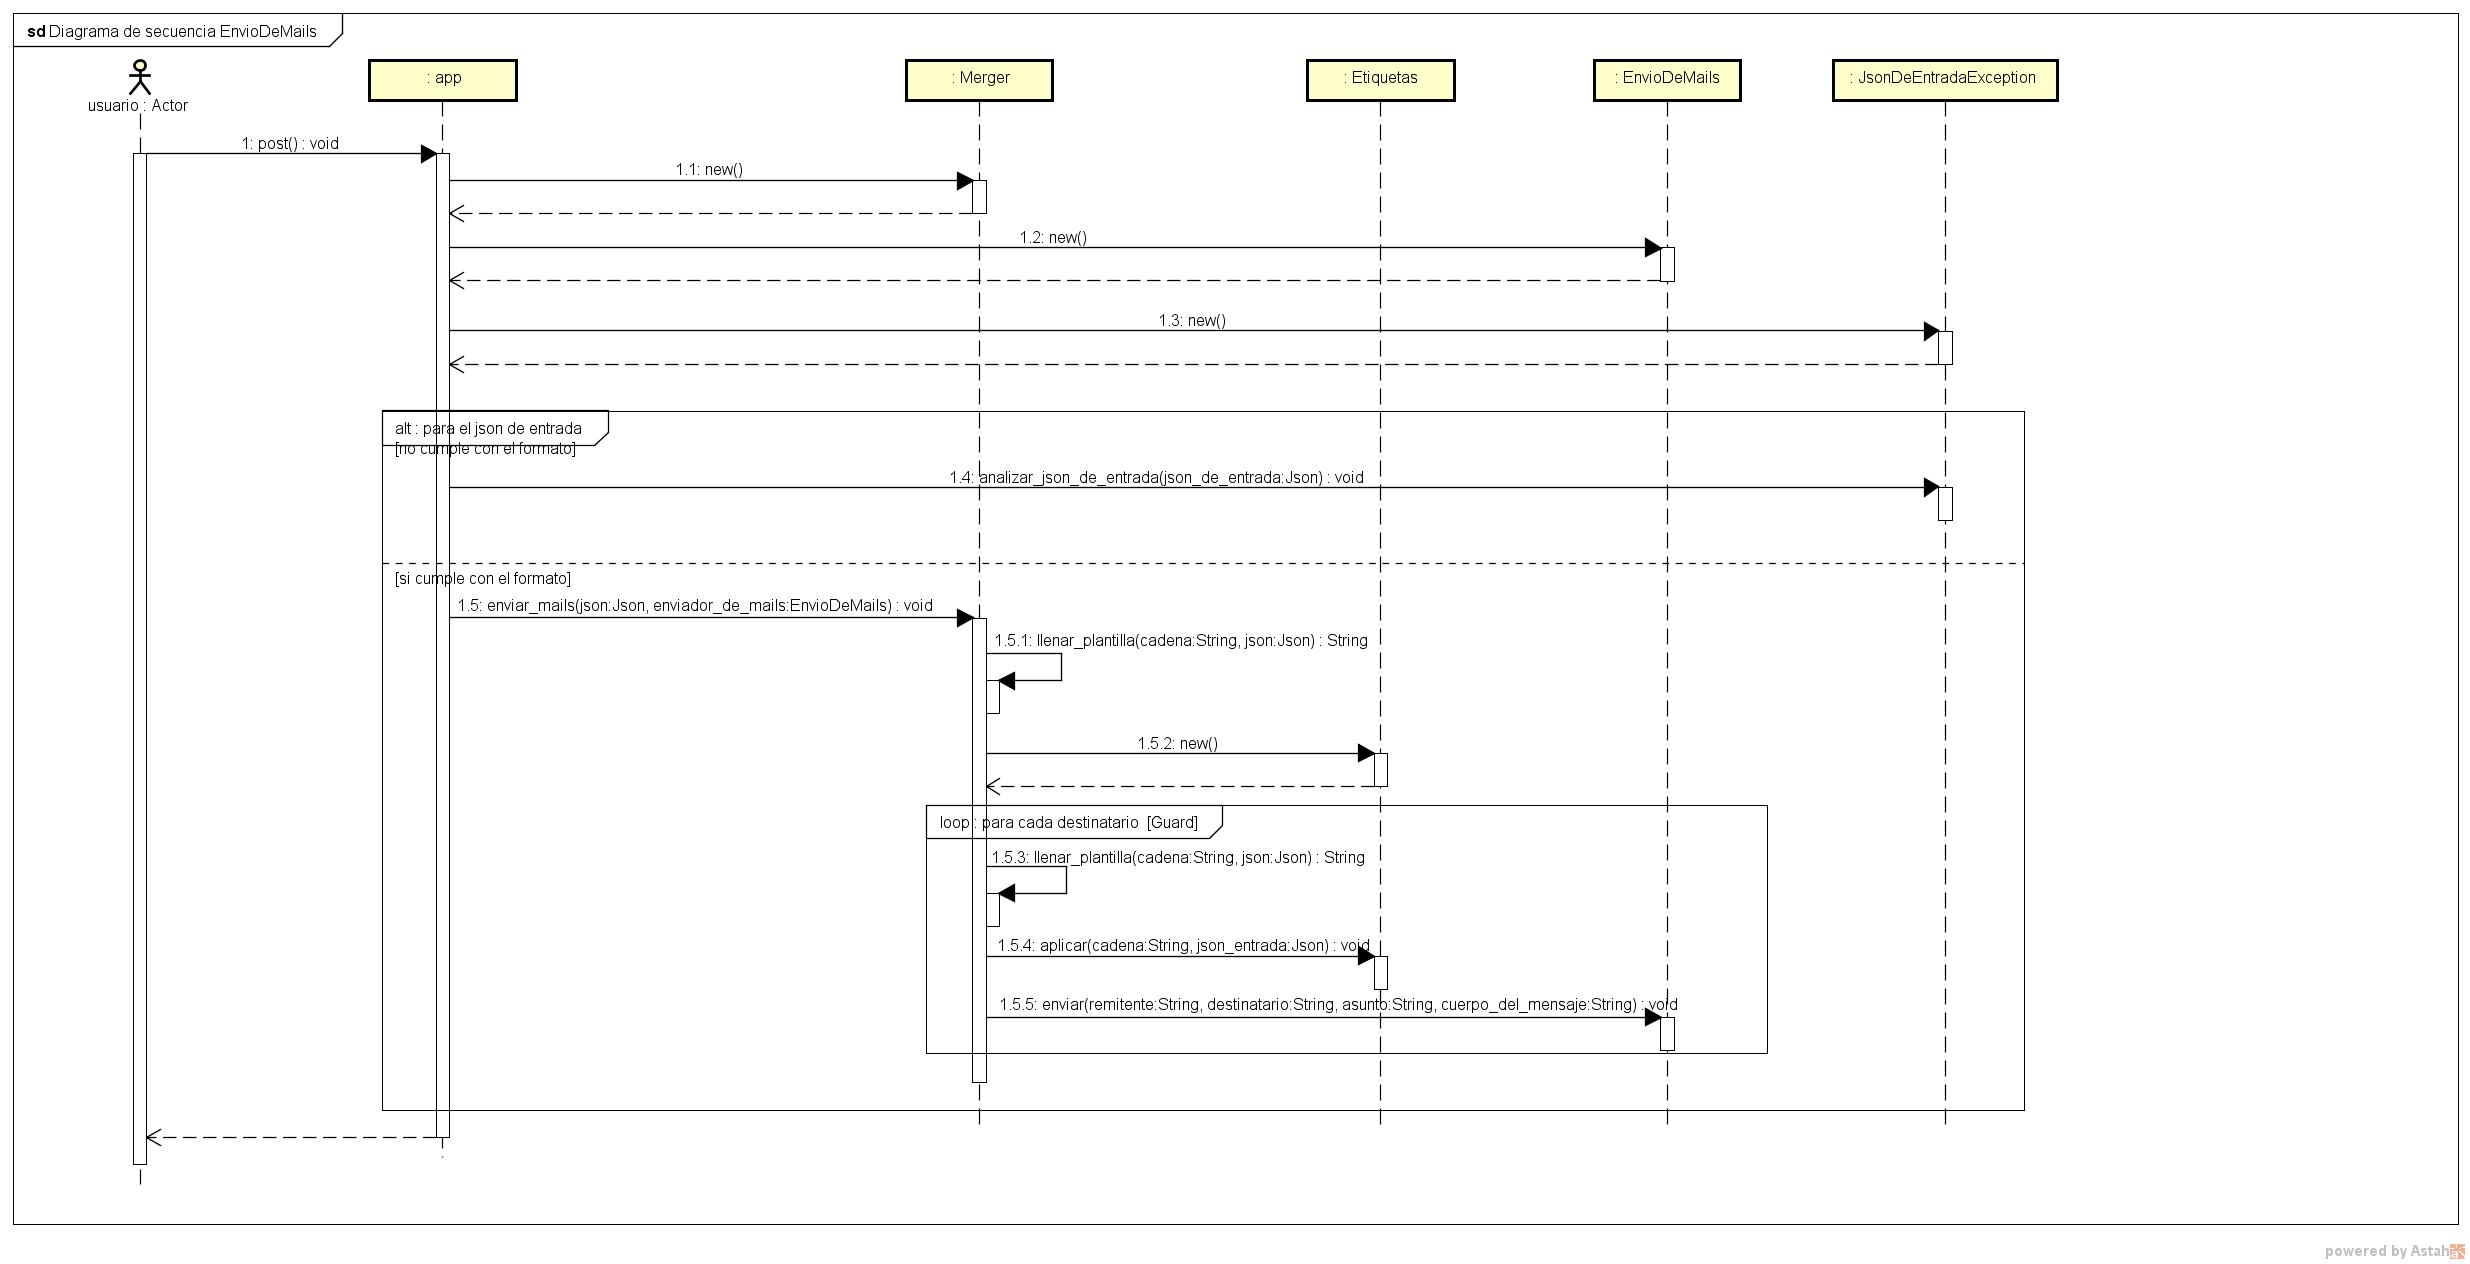
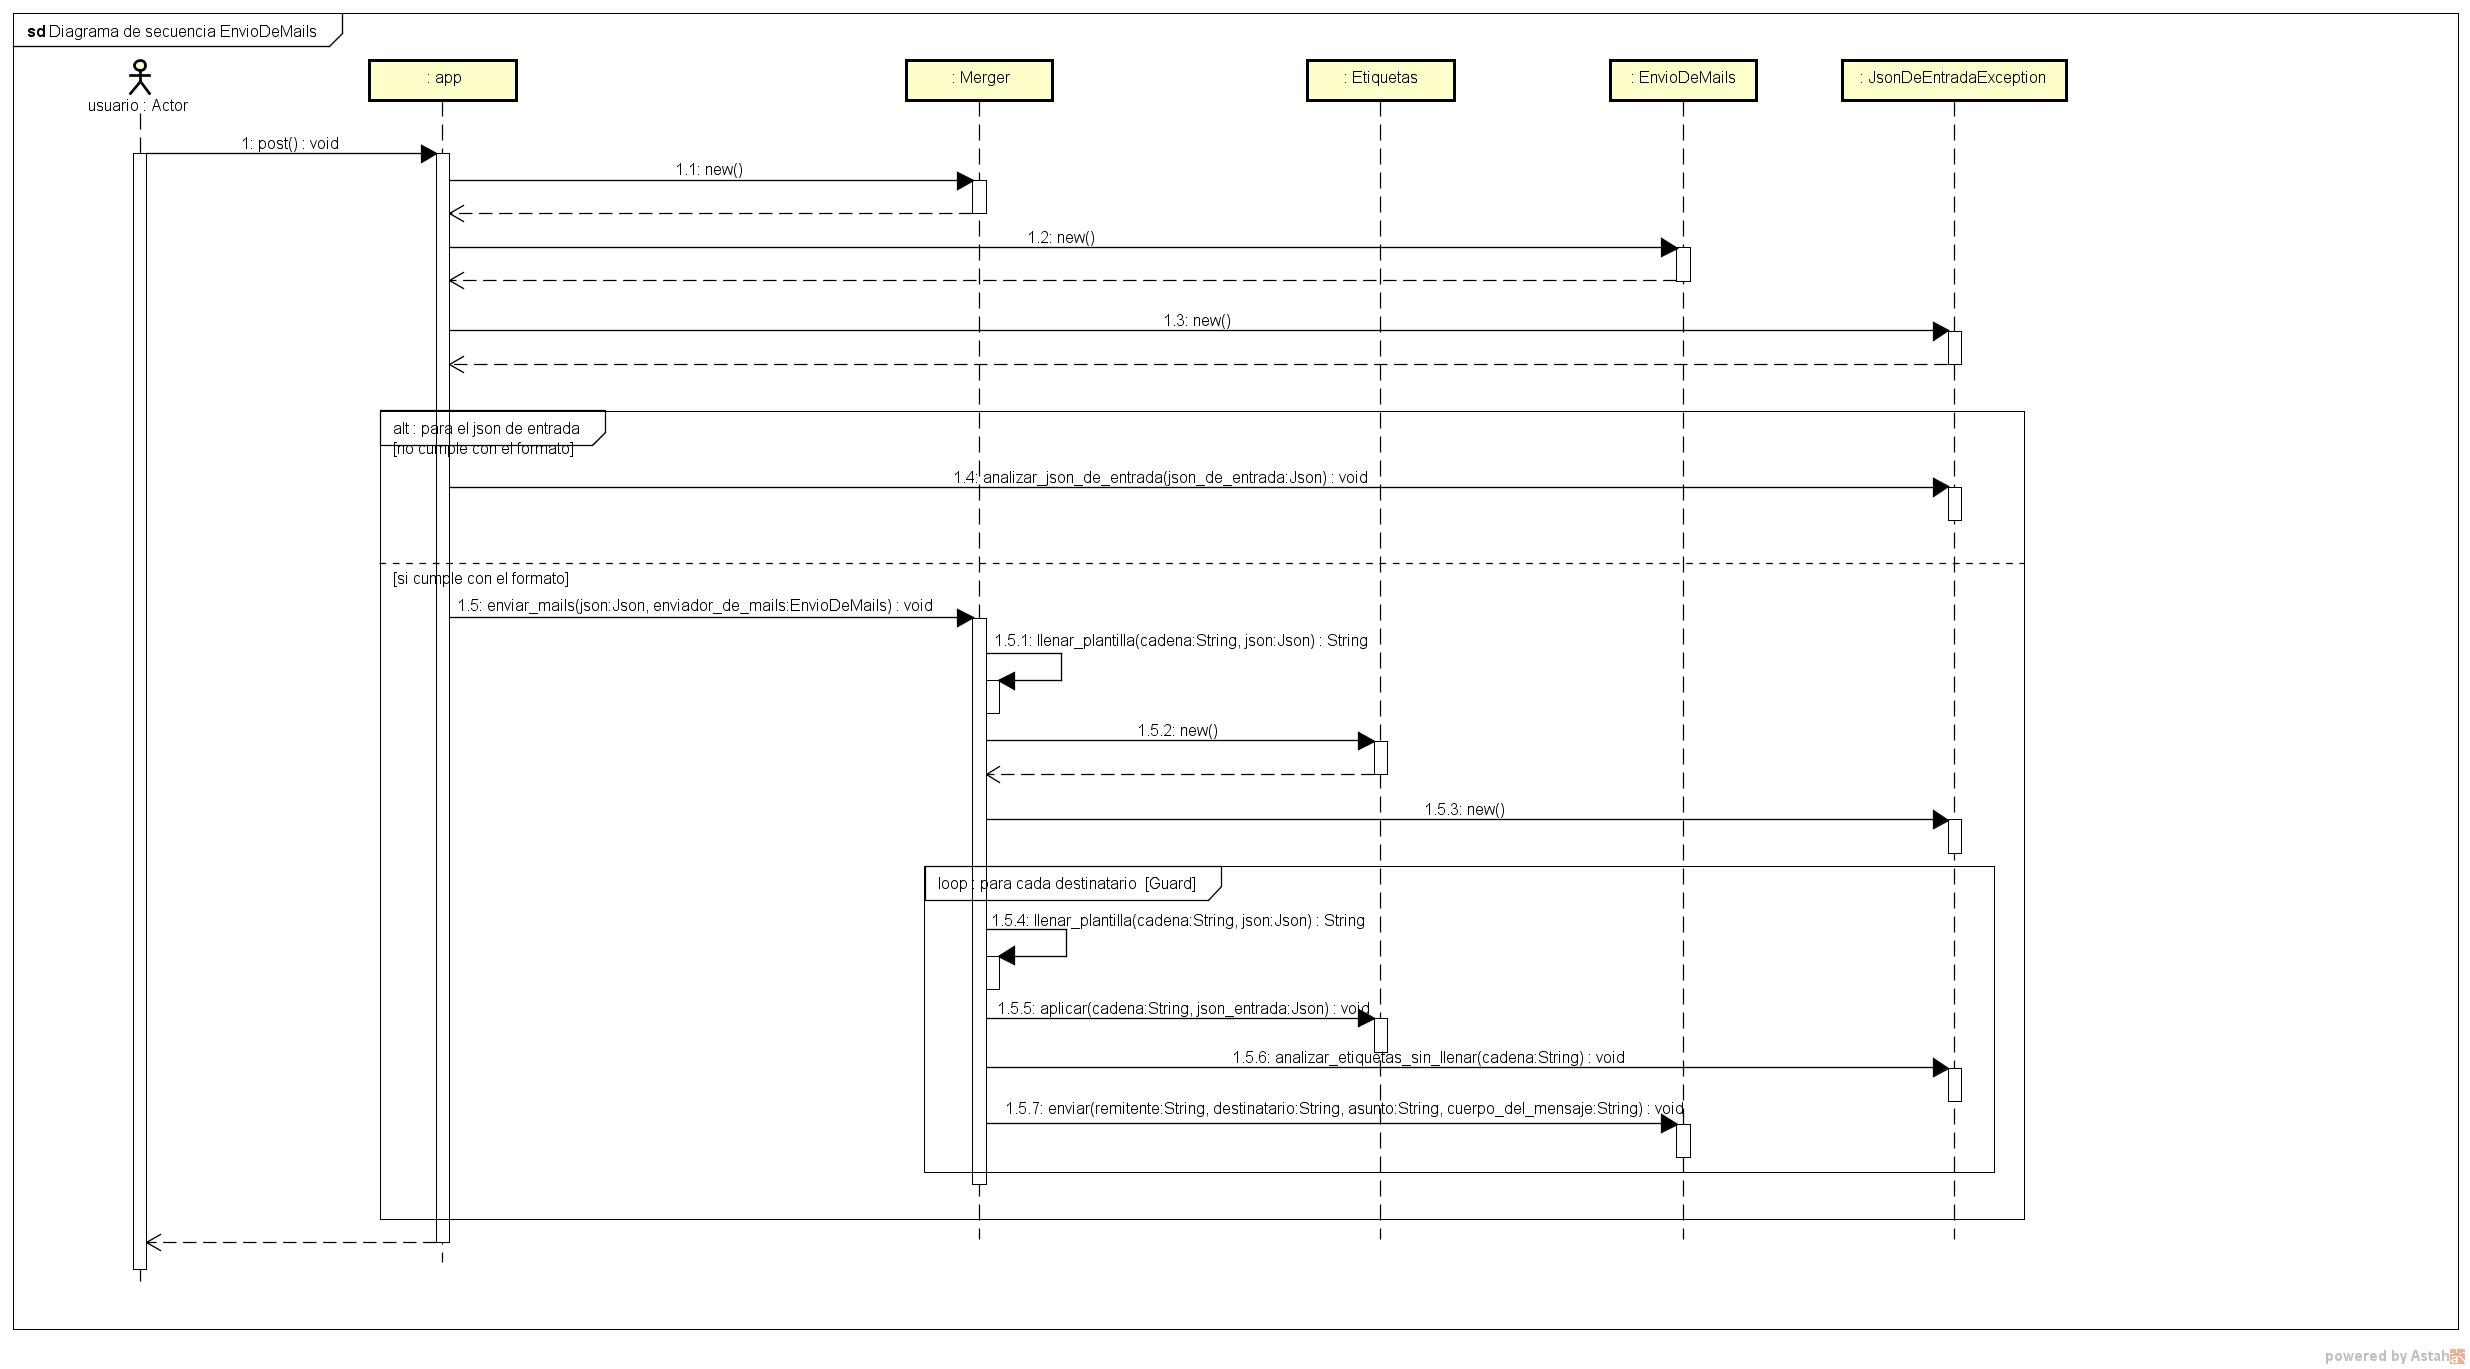
Se modifica el diagrama de secuencia y se agrega aclaracion en el README.

diff --git a/README.md b/README.md
@@ -14,6 +14,7 @@ Aclaraciones acerca del TP:
 
 - Cumple con todas las funcionalidades solicitadas con sus respectivos tests.
 - Los campos a reemplazar son revisados recorriendo los Strings.
-- No se tuvieron en cuenta casos fuera de los limites. Tampoco hay excepciones y no se valida el esquema (json de entrada).
+- Se generan excepciones validando el json de entrada lanzando un error de tipo 500.
 - La aplicacion utiliza Sinatra y esta configurado para funcionar con Mailcatcher para el envio de los mails. Se utilizó el puerto 1025 para el envio de los mails. Se chequea a traves de localhost:1080.
-- Se entrega diagrama de clases y diagrama de secuencia en la carpeta diagramas. 
+- Se entrega diagrama de clases y diagrama de secuencia ubicados en la carpeta diagramas.
+- En el caso de que algun json de entrada no contenga la etiqueta con su informacion correspondiente para ser reemplazado en el template se lanza un error de tipo 500. 
